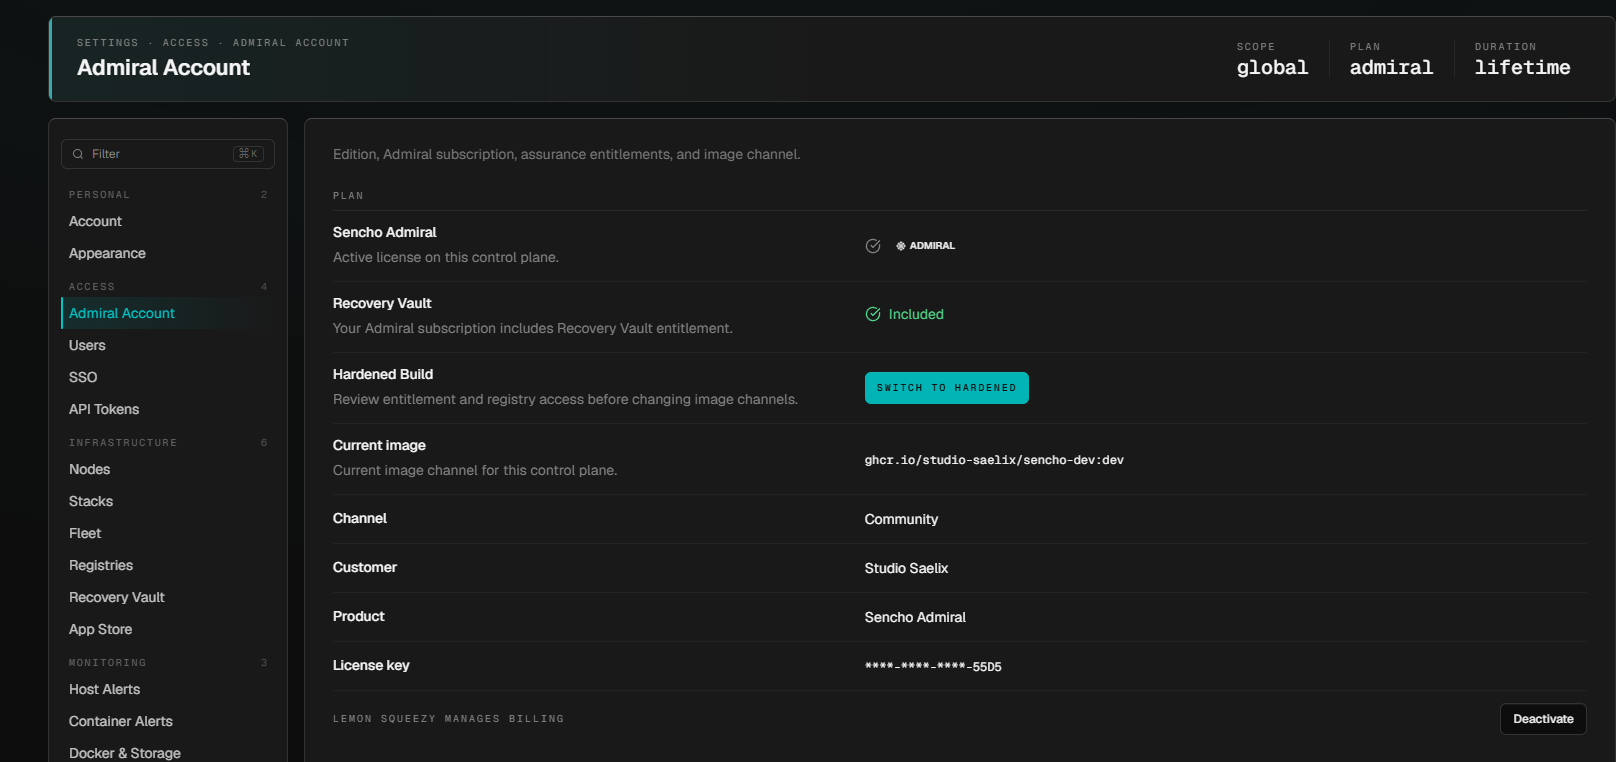
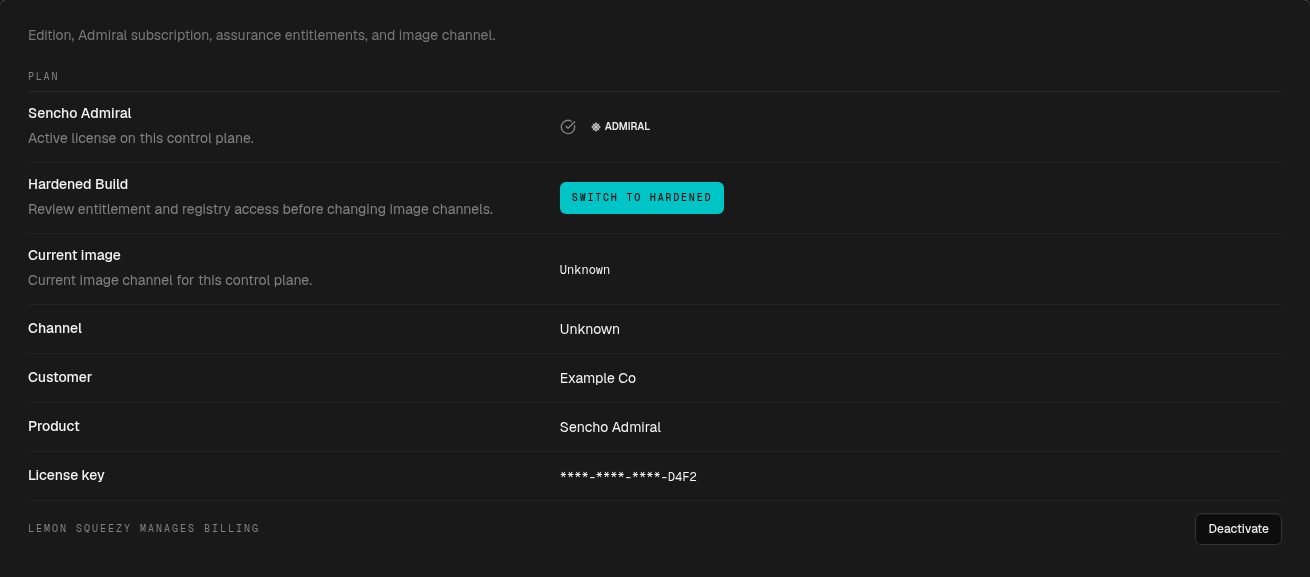
fix(settings): rename Recovery Vault to Snapshot Vault and hold the managed vault behind the experimental flag
The off-site snapshot mirror is now called Snapshot Vault, so the name no
longer overlaps with Recovery (application-data protection and restore).
The section, dashboard label, audit summary, docs, and README follow.

The managed, Admiral-included mode is renamed Sencho Snapshot Vault and is
discoverable only with the experimental flag on. An instance already
configured for it keeps the option and its panels. The Admiral Account
entitlement row follows the same rule, and the catalog entry becomes
planned. Backend routes and the stored provider key are unchanged.

diff --git a/frontend/src/components/settings/CloudBackupSection.tsx b/frontend/src/components/settings/CloudBackupSection.tsx
@@ -12,6 +12,7 @@ import { Tooltip, TooltipContent, TooltipProvider, TooltipTrigger } from '@/comp
 import { apiFetch, type ApiFetchOptions } from '@/lib/api';
 import { formatBytes } from '@/lib/utils';
 import { useLicense } from '@/context/LicenseContext';
+import { useExperimental } from '@/hooks/useExperimental';
 import { Cloud, CloudOff, RefreshCw, CheckCircle2, Loader2, Trash2, Download, FolderInput, ChevronLeft, ChevronRight } from 'lucide-react';
 import { SettingsPrimaryButton } from './SettingsActions';
 import { SettingsField } from './SettingsField';
@@ -82,7 +83,7 @@ const BASE_PROVIDER_OPTIONS = [
     { value: 'custom', label: 'Custom S3 (BYOB)' },
 ];
 
-const SENCHO_PROVIDER_OPTION = { value: 'sencho', label: 'Recovery Vault (included)' };
+const SENCHO_PROVIDER_OPTION = { value: 'sencho', label: 'Sencho Snapshot Vault (included)' };
 
 const PANEL_CLASS = 'rounded-lg border border-card-border border-t-card-border-top bg-card shadow-card-bevel p-4 space-y-3';
 
@@ -90,12 +91,17 @@ const PAGE_SIZE = 10;
 
 export function CloudBackupSection() {
     const { isPaid } = useLicense();
-    const providerOptions = isPaid
-        ? [BASE_PROVIDER_OPTIONS[0], SENCHO_PROVIDER_OPTION, BASE_PROVIDER_OPTIONS[1]]
-        : BASE_PROVIDER_OPTIONS;
+    const { experimental } = useExperimental();
     const [loading, setLoading] = useState(true);
     const [saving, setSaving] = useState(false);
     const [provider, setProvider] = useState<Provider>('disabled');
+    // The managed vault is not launched yet: discovery is gated on the
+    // experimental flag, but an instance already configured for it keeps
+    // the option and its panels so the stored mode never loses its label.
+    const senchoVisible = isPaid && (experimental || provider === 'sencho');
+    const providerOptions = senchoVisible
+        ? [BASE_PROVIDER_OPTIONS[0], SENCHO_PROVIDER_OPTION, BASE_PROVIDER_OPTIONS[1]]
+        : BASE_PROVIDER_OPTIONS;
     const [senchoProvisioned, setSenchoProvisioned] = useState(false);
     const [custom, setCustom] = useState<CustomConfig>(EMPTY_CUSTOM);
     const [originalSecretSaved, setOriginalSecretSaved] = useState(false);
@@ -248,7 +254,7 @@ export function CloudBackupSection() {
             const res = await cloudFetch('/cloud-backup/provision', { method: 'POST' });
             const data = await res.json().catch(() => ({}));
             if (!res.ok || data?.error) throw new Error(data?.error || 'Provisioning failed.');
-            toast.success('Recovery Vault activated.');
+            toast.success('Sencho Snapshot Vault activated.');
             setSenchoProvisioned(true);
             await Promise.all([loadConfig(), loadUsage(), loadSnapshots()]);
         } catch (err) {
@@ -509,7 +515,7 @@ export function CloudBackupSection() {
                 <div className={PANEL_CLASS}>
                     <div className="flex items-center gap-2">
                         <Cloud className="w-4 h-4 text-muted-foreground" strokeWidth={1.5} />
-                        <span className="font-medium text-sm">Activate Recovery Vault</span>
+                        <span className="font-medium text-sm">Activate Sencho Snapshot Vault</span>
                     </div>
                     <p className="text-xs text-muted-foreground">
                         Activates a 500 MB allowance backed by Cloudflare R2, scoped to this Admiral license.
@@ -526,7 +532,7 @@ export function CloudBackupSection() {
                     <div className="flex items-center justify-between gap-3">
                         <div className="flex items-center gap-2">
                             <CheckCircle2 className="w-4 h-4 text-success" strokeWidth={1.5} />
-                            <span className="font-medium text-sm">Recovery Vault</span>
+                            <span className="font-medium text-sm">Sencho Snapshot Vault</span>
                         </div>
                         <div className="flex items-center gap-2">
                             <Button size="sm" variant="outline" onClick={handleTest} disabled={testing}>
@@ -564,7 +570,7 @@ export function CloudBackupSection() {
                     <div className="flex items-start gap-2 rounded-lg border border-glass-border bg-muted/30 px-3 py-2.5">
                         <Cloud className="w-4 h-4 text-muted-foreground shrink-0 mt-0.5" strokeWidth={1.5} />
                         <p className="text-xs text-muted-foreground">
-                            Auto-upload is on for Recovery Vault. Every fleet snapshot is replicated within seconds.
+                            Auto-upload is on for Sencho Snapshot Vault. Every fleet snapshot is replicated within seconds.
                         </p>
                     </div>
                     {encryptionFields}

diff --git a/frontend/src/components/settings/__tests__/CloudBackupSection.test.tsx b/frontend/src/components/settings/__tests__/CloudBackupSection.test.tsx
@@ -9,7 +9,10 @@ vi.mock('@/lib/api', () => ({ apiFetch: (...args: unknown[]) => apiFetch(...args
 vi.mock('@/components/ui/toast-store', () => ({
     toast: { error: vi.fn(), success: vi.fn(), warning: vi.fn(), info: vi.fn(), loading: vi.fn(), dismiss: vi.fn() },
 }));
-vi.mock('@/context/LicenseContext', () => ({ useLicense: () => ({ isPaid: true }) }));
+const useLicenseMock = vi.fn(() => ({ isPaid: true }));
+vi.mock('@/context/LicenseContext', () => ({ useLicense: () => useLicenseMock() }));
+const useExperimentalMock = vi.fn(() => ({ experimental: false, experimentalReady: true }));
+vi.mock('@/hooks/useExperimental', () => ({ useExperimental: () => useExperimentalMock() }));
 
 function json(body: unknown, status = 200) {
     return {
@@ -24,6 +27,8 @@ const snapshotKey = 'sencho/instances/inst/snapshots/1.tar.gz.senc';
 
 beforeEach(() => {
     apiFetch.mockReset();
+    useLicenseMock.mockReturnValue({ isPaid: true });
+    useExperimentalMock.mockReturnValue({ experimental: false, experimentalReady: true });
     vi.mocked(toast.success).mockReset();
     apiFetch.mockImplementation(async (path: string, options?: { method?: string; body?: string; localOnly?: boolean }) => {
         if (path === '/cloud-backup/config') {
@@ -90,5 +95,67 @@ describe('CloudBackupSection archive encryption', () => {
         await user.type(screen.getByLabelText('Passphrase for this archive'), 'correct-horse');
         await user.click(screen.getByRole('button', { name: 'Import' }));
         await waitFor(() => expect(toast.success).toHaveBeenCalledWith('Imported as a new local snapshot.'));
+    });
+});
+
+describe('CloudBackupSection managed vault discovery', () => {
+    function mockProvider(provider: 'disabled' | 'sencho' | 'custom') {
+        apiFetch.mockImplementation(async (path: string) => {
+            if (path === '/cloud-backup/config') {
+                return json({
+                    provider,
+                    sencho_provisioned: provider === 'sencho',
+                    sencho_provisioned_at: null,
+                    custom: {
+                        endpoint: '', region: '', bucket: '', access_key: '', secret_key: '',
+                        path_prefix: 'sencho/', auto_upload: false,
+                    },
+                    encrypt_archives: false,
+                    archive_passphrase: '',
+                });
+            }
+            if (path === '/cloud-backup/usage') return json({ used_bytes: 0, quota_bytes: 100, object_count: 0 });
+            if (path === '/cloud-backup/snapshots') return json([]);
+            return json({ error: 'unexpected' }, 500);
+        });
+    }
+
+    async function openStorageModes() {
+        const user = userEvent.setup();
+        await user.click(await screen.findByRole('combobox'));
+        return screen;
+    }
+
+    it('offers only Custom S3 when the experimental flag is off and nothing is configured', async () => {
+        mockProvider('disabled');
+        render(<CloudBackupSection />);
+        await openStorageModes();
+        expect(await screen.findByText('Custom S3 (BYOB)')).toBeInTheDocument();
+        expect(screen.queryByText('Sencho Snapshot Vault (included)')).not.toBeInTheDocument();
+    });
+
+    it('offers Sencho Snapshot Vault to Admiral when the experimental flag is on', async () => {
+        useExperimentalMock.mockReturnValue({ experimental: true, experimentalReady: true });
+        mockProvider('disabled');
+        render(<CloudBackupSection />);
+        await openStorageModes();
+        expect(await screen.findByText('Sencho Snapshot Vault (included)')).toBeInTheDocument();
+    });
+
+    it('never offers it on Community, even with the experimental flag on', async () => {
+        useLicenseMock.mockReturnValue({ isPaid: false });
+        useExperimentalMock.mockReturnValue({ experimental: true, experimentalReady: true });
+        mockProvider('disabled');
+        render(<CloudBackupSection />);
+        await openStorageModes();
+        expect(await screen.findByText('Custom S3 (BYOB)')).toBeInTheDocument();
+        expect(screen.queryByText('Sencho Snapshot Vault (included)')).not.toBeInTheDocument();
+    });
+
+    it('keeps the managed option visible for an instance already configured for it', async () => {
+        mockProvider('sencho');
+        render(<CloudBackupSection />);
+        expect(await screen.findByText('Sencho Snapshot Vault (included)')).toBeInTheDocument();
+        expect(screen.getByText('Sencho Snapshot Vault')).toBeInTheDocument();
     });
 });

diff --git a/frontend/src/components/settings/LicenseSection.tsx b/frontend/src/components/settings/LicenseSection.tsx
@@ -4,6 +4,7 @@ import { Input } from '@/components/ui/input';
 import { toast } from '@/components/ui/toast-store';
 import { useLicense } from '@/context/LicenseContext';
 import { useBuildInfo } from '@/hooks/useBuildInfo';
+import { useExperimental } from '@/hooks/useExperimental';
 import { TierBadge } from '@/components/TierBadge';
 import {
     Crown, CheckCircle, XCircle, Clock, ExternalLink,
@@ -65,6 +66,7 @@ function getTierMastheadValue(tier?: string): string {
 
 export function LicenseSection() {
     const { license, isPaid, activate, deactivate } = useLicense();
+    const { experimental } = useExperimental();
     const { buildInfo, status: buildInfoStatus } = useBuildInfo();
     const [licenseKeyInput, setLicenseKeyInput] = useState('');
     const [isActivating, setIsActivating] = useState(false);
@@ -207,7 +209,7 @@ export function LicenseSection() {
                     label={getTierDisplayName(license?.tier, license?.status)}
                     helper={
                         license?.status === 'expired'
-                            ? 'Your Admiral license has expired. Renew to restore Admiral assurance (priority support, Recovery Vault, Hardened Build, and governance).'
+                            ? 'Your Admiral license has expired. Renew to restore Admiral assurance (priority support, Hardened Build, and governance).'
                             : license?.status === 'disabled'
                                 ? 'Your license has been disabled. Contact support for assistance.'
                                 : license?.status === 'trial' && license.trialDaysRemaining !== null
@@ -237,14 +239,14 @@ export function LicenseSection() {
                             <ExternalLink className="h-3.5 w-3.5" />
                         </a>
                     </SettingsField>
-                ) : (
-                    <SettingsField label="Recovery Vault" helper="Your Admiral subscription includes Recovery Vault entitlement.">
+                ) : experimental ? (
+                    <SettingsField label="Sencho Snapshot Vault" helper="Your Admiral subscription includes Sencho Snapshot Vault entitlement.">
                         <span className="inline-flex items-center gap-2 text-sm text-success">
                             <CheckCircle className="h-4 w-4" />
                             Included
                         </span>
                     </SettingsField>
-                )}
+                ) : null}
                 {isPaid && channelStatus?.channel !== 'hardened' ? (
                     <SettingsField label="Hardened Build" helper="Review entitlement and registry access before changing image channels.">
                         <SettingsPrimaryButton size="sm" onClick={openPreflight} disabled={preflightLoading}>
@@ -312,7 +314,7 @@ export function LicenseSection() {
                 {license?.status === 'expired' ? (
                     <SettingsField
                         label="Status"
-                        helper="Renew to restore Admiral assurance (priority support, Recovery Vault, Hardened Build, and governance)."
+                        helper="Renew to restore Admiral assurance (priority support, Hardened Build, and governance)."
                         tone="error"
                     >
                         <div className="flex items-center gap-2 text-destructive">
@@ -325,7 +327,7 @@ export function LicenseSection() {
                 {license?.status === 'trial' && license.trialDaysRemaining !== null ? (
                     <SettingsField
                         label="Trial countdown"
-                        helper="Activate before the trial ends to keep Admiral assurance (priority support, Recovery Vault, Hardened Build, and governance)."
+                        helper="Activate before the trial ends to keep Admiral assurance (priority support, Hardened Build, and governance)."
                         tone="warn"
                     >
                         <div className="flex items-center gap-2">

diff --git a/frontend/src/components/settings/__tests__/LicenseSection.test.tsx b/frontend/src/components/settings/__tests__/LicenseSection.test.tsx
@@ -19,6 +19,12 @@ vi.mock('@/hooks/useBuildInfo', () => ({
     useBuildInfo: () => useBuildInfoMock(),
 }));
 
+const useExperimentalMock = vi.fn(() => ({ experimental: false, experimentalReady: true }));
+
+vi.mock('@/hooks/useExperimental', () => ({
+    useExperimental: () => useExperimentalMock(),
+}));
+
 vi.mock('@/components/TierBadge', () => ({
     TierBadge: () => <span data-testid="tier-badge">tier</span>,
 }));
@@ -33,7 +39,7 @@ vi.mock('@/lib/api', () => ({
 import { LicenseSection } from '../LicenseSection';
 
 const ASSURANCE =
-    'Admiral assurance (priority support, Recovery Vault, Hardened Build, and governance)';
+    'Admiral assurance (priority support, Hardened Build, and governance)';
 
 function baseLicense(overrides: Partial<LicenseInfo> = {}): LicenseInfo {
     return {
@@ -209,5 +215,25 @@ describe('LicenseSection build rows (running identity consistency)', () => {
         render(<LicenseSection />);
         expect(screen.getAllByText('Unknown').length).toBeGreaterThan(0);
         expect(screen.queryByText('Custom')).toBeNull();
+    });
+});
+
+describe('LicenseSection Sencho Snapshot Vault row', () => {
+    beforeEach(() => {
+        useExperimentalMock.mockReturnValue({ experimental: false, experimentalReady: true });
+        useBuildInfoMock.mockReturnValue({ buildInfo: null, status: 'ready', retry: vi.fn() });
+    });
+
+    it('hides the row on an Admiral license while the managed vault is experimental-only', () => {
+        mockLicense(baseLicense({ tier: 'paid', status: 'active' }));
+        render(<LicenseSection />);
+        expect(screen.queryByText('Sencho Snapshot Vault')).not.toBeInTheDocument();
+    });
+
+    it('shows the row on an Admiral license when the experimental flag is on', () => {
+        useExperimentalMock.mockReturnValue({ experimental: true, experimentalReady: true });
+        mockLicense(baseLicense({ tier: 'paid', status: 'active' }));
+        render(<LicenseSection />);
+        expect(screen.getByText('Sencho Snapshot Vault')).toBeInTheDocument();
     });
 });

diff --git a/backend/src/services/CloudBackupService.ts b/backend/src/services/CloudBackupService.ts
@@ -211,7 +211,7 @@ export class CloudBackupService {
         if (!licenseKey) return { success: false, error: 'No license key found. Activate an Admiral license first.' };
 
         if (LicenseService.getInstance().getTier() !== 'paid') {
-            return { success: false, error: 'Recovery Vault requires the Admiral tier.' };
+            return { success: false, error: 'Sencho Snapshot Vault requires the Admiral tier.' };
         }
 
         const apiBase = process.env.SENCHO_CLOUD_BACKUP_API || SENCHO_CLOUD_BACKUP_API_DEFAULT;
@@ -237,13 +237,13 @@ export class CloudBackupService {
             return { success: true, quotaBytes: data.quota_bytes };
         } catch (err) {
             const responseError = (err as { response?: { data?: { error?: string } } }).response?.data?.error;
-            return { success: false, error: responseError || getErrorMessage(err, 'Failed to provision Recovery Vault.') };
+            return { success: false, error: responseError || getErrorMessage(err, 'Failed to provision Sencho Snapshot Vault.') };
         }
     }
 
     public async refreshSenchoCloudBackupCredentials(): Promise<void> {
         const result = await this.provisionSenchoCloudBackup();
-        if (!result.success) throw new Error(result.error || 'Failed to refresh Recovery Vault credentials.');
+        if (!result.success) throw new Error(result.error || 'Failed to refresh Sencho Snapshot Vault credentials.');
     }
 
     public async getSenchoCloudBackupUsage(): Promise<{ used_bytes: number; quota_bytes: number; object_count: number }> {

diff --git a/frontend/src/components/dashboard/__tests__/ConfigurationSummary.test.tsx b/frontend/src/components/dashboard/__tests__/ConfigurationSummary.test.tsx
@@ -289,8 +289,8 @@ describe('ConfigurationSummary labels', () => {
   it('distinguishes the backup providers', () => {
     for (const [backup, expected] of [
       [{ provider: 'disabled', autoUpload: false, encryptArchives: false, locked: false }, 'Off'],
-      [{ provider: 'sencho', autoUpload: false, encryptArchives: false, locked: false }, 'Recovery Vault'],
-      [{ provider: 'sencho', autoUpload: false, encryptArchives: true, locked: false }, 'Recovery Vault (encrypted)'],
+      [{ provider: 'sencho', autoUpload: false, encryptArchives: false, locked: false }, 'Sencho Snapshot Vault'],
+      [{ provider: 'sencho', autoUpload: false, encryptArchives: true, locked: false }, 'Sencho Snapshot Vault (encrypted)'],
       [{ provider: 'custom', autoUpload: true, encryptArchives: false, locked: false }, 'Custom S3 (auto)'],
       [{ provider: 'custom', autoUpload: true, encryptArchives: true, locked: false }, 'Custom S3 (auto) (encrypted)'],
     ] as const) {

diff --git a/backend/src/routes/cloudBackup.ts b/backend/src/routes/cloudBackup.ts
@@ -225,7 +225,7 @@ cloudBackupRouter.post('/provision', async (req: Request, res: Response): Promis
         res.json({ success: true, quota_bytes: result.quotaBytes });
     } catch (error) {
         console.error('[CloudBackup] provision error:', error);
-        res.status(500).json({ error: 'Failed to provision Recovery Vault' });
+        res.status(500).json({ error: 'Failed to provision Sencho Snapshot Vault' });
     }
 });
 
@@ -235,7 +235,7 @@ cloudBackupRouter.get('/usage', async (req: Request, res: Response): Promise<voi
     try {
         const svc = CloudBackupService.getInstance();
         if (svc.getProvider() !== 'sencho') {
-            res.status(400).json({ error: 'Usage is only available for Recovery Vault' });
+            res.status(400).json({ error: 'Usage is only available for Sencho Snapshot Vault' });
             return;
         }
         const usage = await svc.getSenchoCloudBackupUsage();

diff --git a/frontend/src/components/settings/registry.ts b/frontend/src/components/settings/registry.ts
@@ -169,9 +169,9 @@ export const SETTINGS_ITEMS: readonly SettingsItemMeta[] = [
     {
         id: 'cloud-backup',
         group: 'infrastructure',
-        label: 'Recovery Vault',
-        description: 'Mirror fleet snapshots to Recovery Vault or any S3-compatible storage.',
-        keywords: ['recovery', 'vault', 'cloud', 'backup', 'snapshot', 's3', 'r2', 'minio', 'storage', 'offsite'],
+        label: 'Snapshot Vault',
+        description: 'Mirror fleet snapshots to any S3-compatible storage.',
+        keywords: ['vault', 'cloud', 'backup', 'snapshot', 's3', 'r2', 'minio', 'storage', 'offsite'],
         tier: null,
         scope: 'global',
         adminOnly: true,

diff --git a/backend/src/utils/audit-summaries.ts b/backend/src/utils/audit-summaries.ts
@@ -114,7 +114,7 @@ export const AUDIT_ROUTE_SUMMARIES: Record<string, string> = {
   // Cloud backup
   'PUT /cloud-backup/config': 'Updated cloud backup config',
   'POST /cloud-backup/test': 'Tested cloud backup connection',
-  'POST /cloud-backup/provision': 'Provisioned Recovery Vault',
+  'POST /cloud-backup/provision': 'Provisioned Sencho Snapshot Vault',
   'POST /cloud-backup/upload': 'Uploaded snapshot to cloud',
   'POST /cloud-backup/object/*/import': 'Imported cloud snapshot',
   'DELETE /cloud-backup/object': 'Deleted cloud snapshot',

diff --git a/frontend/src/components/dashboard/ConfigurationSummary.tsx b/frontend/src/components/dashboard/ConfigurationSummary.tsx
@@ -99,7 +99,7 @@ function ssoLabel(sec: ConfigurationStatusPayload['security']): string {
 function vaultLabel(backup: ConfigurationStatusPayload['backup']): string {
   if (backup.provider === 'disabled') return 'Off';
   const encrypted = backup.encryptArchives ? ' (encrypted)' : '';
-  if (backup.provider === 'sencho') return `Recovery Vault${encrypted}`;
+  if (backup.provider === 'sencho') return `Sencho Snapshot Vault${encrypted}`;
   return `Custom S3${backup.autoUpload ? ' (auto)' : ''}${encrypted}`;
 }
 

diff --git a/README.md b/README.md
@@ -218,7 +218,7 @@ Sencho does not emit telemetry, analytics, or crash reports, and makes no outbou
 
 ## Admiral
 
-**Admiral** is Studio Saelix's paid business assurance plan on top of everything in Community: Hardened Build, Recovery Vault (managed off-site snapshots), priority support, and governance depth (LDAP / Active Directory, full audit log export and anomaly detection, and related organizational controls). Built-in RBAC (five roles and scoped assignments) is included on Community. AWS ECR registry credentials currently require Admiral as well; that access rule is temporary availability, not the reason Admiral exists. See [sencho.io/pricing](https://sencho.io/pricing) for current plan details.
+**Admiral** is Studio Saelix's paid business assurance plan on top of everything in Community: Hardened Build, priority support, and governance depth (LDAP / Active Directory, full audit log export and anomaly detection, and related organizational controls). Built-in RBAC (five roles and scoped assignments) is included on Community. AWS ECR registry credentials currently require Admiral as well; that access rule is temporary availability, not the reason Admiral exists. See [sencho.io/pricing](https://sencho.io/pricing) for current plan details.
 
 ---
 
